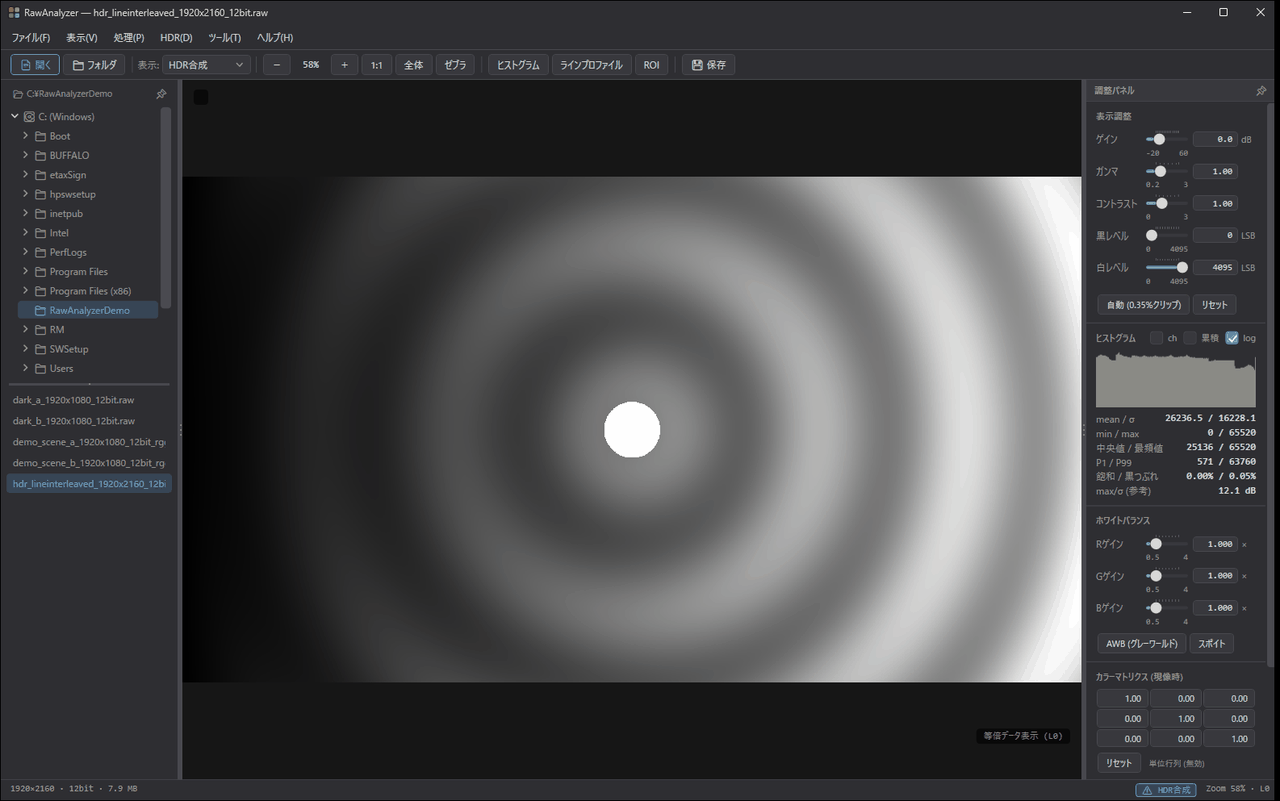
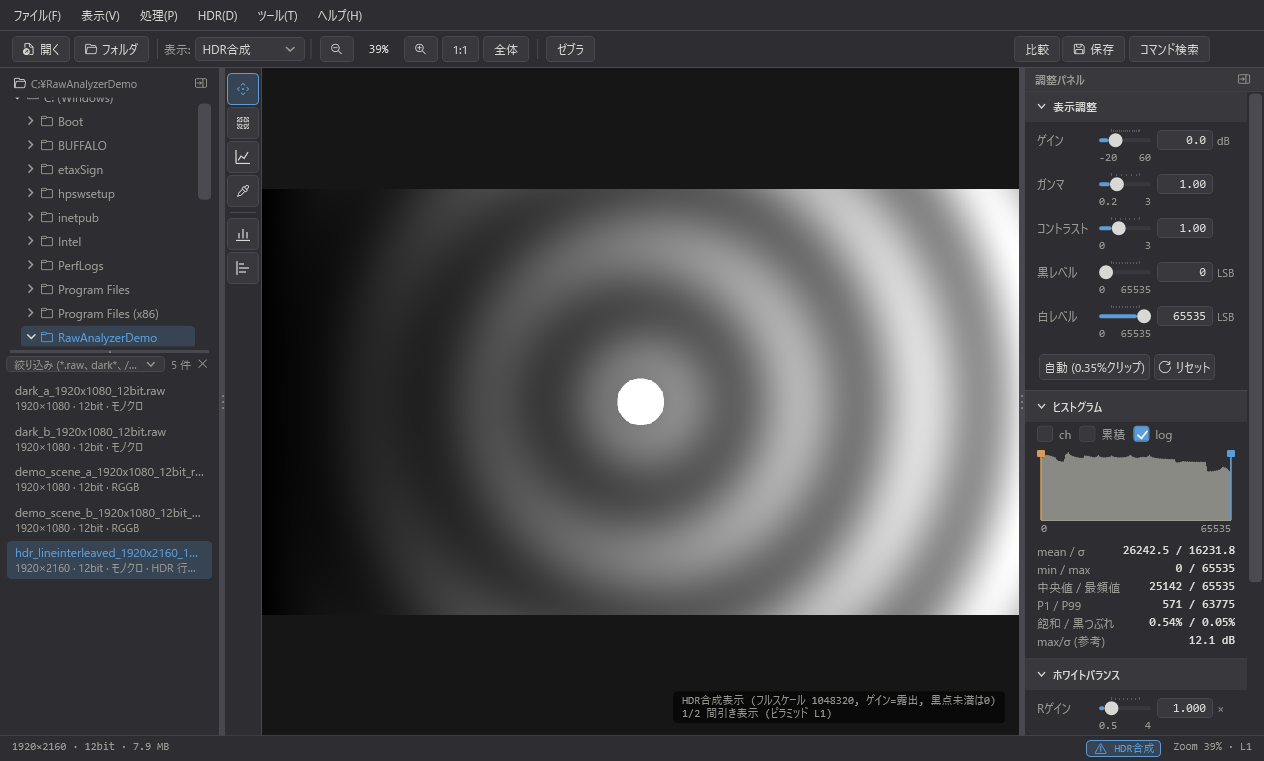
Update README and screenshots for the redesigned UI
- Retake the eight screenshots with the current UI (main window, raw
  import dialog with live preview, docked line profile and projection,
  noise / DR dialog, HDR split and merge)
- Describe the candidate list, live preview and collapsed sections of
  the import dialog, the canvas tools, the graph dock, the histogram
  level handles, the processing preview and the compare mode entry point
- Widen the HDR import screenshot in docs/reference.md to fit the dialog

diff --git a/README.md b/README.md
@@ -24,10 +24,12 @@
 `Ctrl+O`、ツールバーの「開く」、またはドラッグ&ドロップで設定画面が出ます。
 JPEG / PNG / TIFF / BMP / DNG は設定なしで開きます。
 
-<img src="docs/images/import-dialog.png" width="400" alt="Rawファイルを開く">
+<img src="docs/images/import-dialog.png" width="600" alt="Rawファイルを開く">
 
-- 上部の**候補**には、ファイルサイズに合う設定が出ます(ファイル名の `1920x1080` などの表記も使います)。
+- 上部の**候補**には、ファイルサイズに合う設定が一覧で出ます(ファイル名の `1920x1080` などの表記も使います)。選ぶと全項目に入ります
+- 右側の**プレビュー**は、入力中の設定で先頭フレームを読んだものです。幅やビット深度が違うと絵が崩れるので、開く前に確かめられます。
   下部の推定サイズが実ファイルサイズと一致すれば、並びはひとまず合っています
+- 詰め方向・エンディアン・ヘッダオフセット・フレーム数は「詳細」にあります。HDR の項目は格納レイアウトを選ぶと出ます
 - よく使う設定は「保存…」で**プリセット**にできます。一度開いた設定は記憶し、同じサイズ・拡張子のファイルも次回から設定画面なしで開きます。
   違っていたら `F2` で開き直して修正します
 - 左下のファイル一覧は、拡張子・ワイルドカード(`dark*`)・正規表現(`/^img_\d{3}\.raw$/`)で絞り込めます(`Ctrl+F`)
@@ -36,7 +38,8 @@ JPEG / PNG / TIFF / BMP / DNG は設定なしで開きます。
 
 右パネルの調整は表示だけを変え、画素データは書き換えません。
 
-- `Ctrl+A` **自動コントラスト**(上下 0.35% をクリップ)、ゲイン(−20〜+60 dB)、ガンマ、コントラスト、黒 / 白レベル
+- `Ctrl+A` **自動コントラスト**(上下 0.35% をクリップ)、ゲイン(−20〜+60 dB)、ガンマ、コントラスト、黒 / 白レベル。
+  黒 / 白レベルは、ヒストグラム上のハンドルをドラッグしても変えられます
 - `Z` **ゼブラ**で飽和(最大コードの 98% 以上)と黒つぶれを縞表示
 - 3200% 以上に拡大すると画素値を重ねて表示。`Ctrl+矢印` で画素カーソルを動かし、値をステータスバーで追えます
 
@@ -51,17 +54,19 @@ JPEG / PNG / TIFF / BMP / DNG は設定なしで開きます。
 ### 測る
 
 右パネルには常にヒストグラムと統計(mean, σ, min/max, 中央値, 最頻値, P1/P99, 飽和率, 黒つぶれ率)が出ます。
-ツールバーの「ROI」で範囲を囲むと、その中だけの統計になります。
+キャンバス左側のツールで「ROI」を選んで範囲を囲むと、その中だけの統計になります。
 
 | 機能 | 操作 | 内容 |
 |---|---|---|
-| ラインプロファイル | 「ラインプロファイル」→ 画素をクリック | クリック位置を通る行・列の断面 |
+| ラインプロファイル | キャンバス左側の「ラインプロファイル」→ 画素をクリック | クリック位置を通る行・列の断面 |
 | 水平 / 垂直射影 | `H` / `V` | ROI か画像全体の列・行ごとの平均と最大・最小(EMVA 1288 の向き)。列 / 行 FPN、シェーディングを見る |
 | ノイズ / DR | ツール → ノイズ / ダイナミックレンジ測定 | 同条件の暗時フレーム 2 枚の差分から σ_temporal = σ(A−B)/√2 と σ_FPN を分離し、DR を算出 |
 | 欠陥画素 | ツール → 欠陥画素検出 | mean ± Nσ を外れた画素を全画素走査で検出。平均 / メディアン補間で補正、CSV 出力 |
 
-<img src="docs/images/projection.png" width="49%" alt="射影"> <img src="docs/images/noise-dr.png" width="31%" alt="ノイズ / DR 測定">
+<img src="docs/images/projection.png" width="55%" alt="射影"> <img src="docs/images/noise-dr.png" width="40%" alt="ノイズ / DR 測定">
 
+ラインプロファイルと射影のグラフは、画像の下のドックにタブで並びます。別ウィンドウに出して並べることもできます。
+グラフにポインターを置くと、その位置の値を読み取れます。
 グラフはホイールで拡大(`Shift` で横軸のみ、`Ctrl` で縦軸のみ)、ドラッグで移動、ダブルクリックで全体表示に戻ります。
 軸を右クリックすると範囲・目盛間隔・目盛線を設定できます。データは CSV / TSV で出力できます。
 
@@ -81,11 +86,13 @@ JPEG / PNG / TIFF / BMP / DNG は設定なしで開きます。
 ### 処理・保存
 
 - **処理**メニュー: デジタルビニング(2×2〜8×8、平均 / 加算、Bayer の CFA 配列を保持)、空間フィルタ
-  (平均・ガウシアン・メディアン・アンシャープ・Sobel・最小・最大)、画像演算(ダーク減算・フラット補正)
+  (平均・ガウシアン・メディアン・アンシャープ・Sobel・最小・最大)、画像演算(ダーク減算・フラット補正)。
+  ビニングとフィルタは、適用前と適用後をプレビューで見比べてから適用できます
 - `Ctrl+S` で Raw / 16bit TIFF / PNG / JPEG / float raw に保存。表示 LUT・WB・マトリクス・デモザイクを焼き込むか個別に選べ、
   何を焼き込んだかをサイドカーに記録できます
 - `Ctrl+B` でフォルダ一括の現像と、連番・マルチフレーム・TIFF スタックからの動画書き出し(MJPEG AVI / MP4 H.264)
-- 「表示」→「比較モード」で最大 4 枚を並べ、視野・表示条件を同期して比較
+- ツールバーの「比較」で最大 4 枚を並べ、視野・表示条件を同期して比較。右パネルで選択中の画像の見え方を調整でき、
+  カーソル位置の画素値を全画像ぶん並べて読めます
 
 ### キーボード
 
